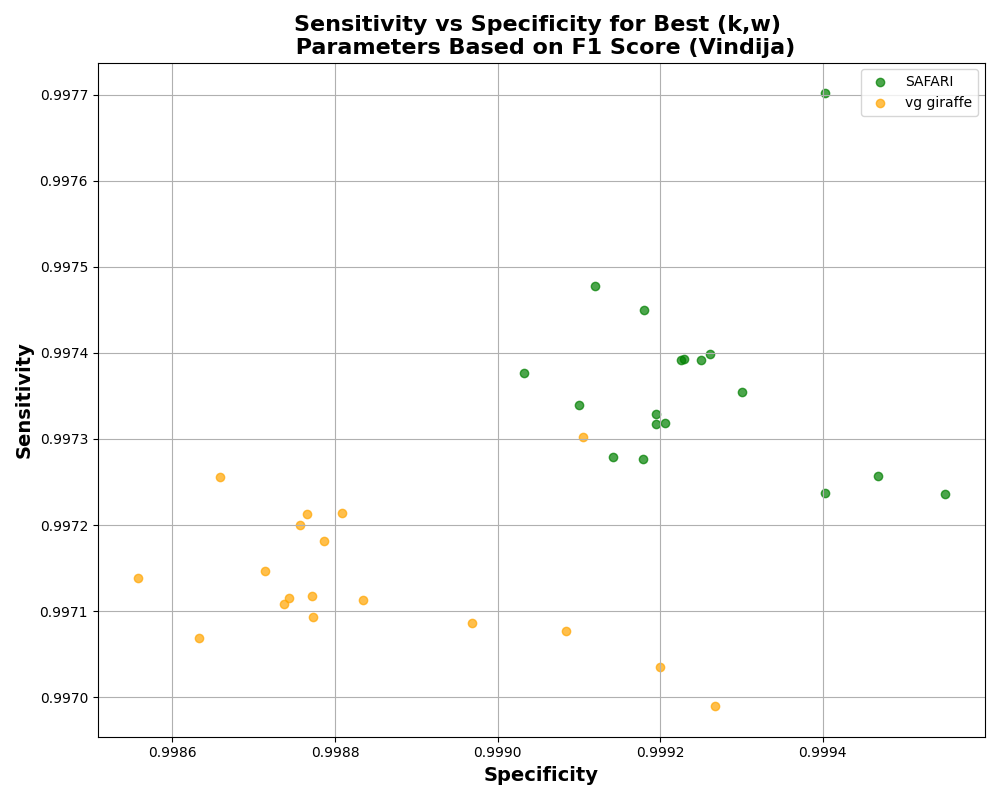
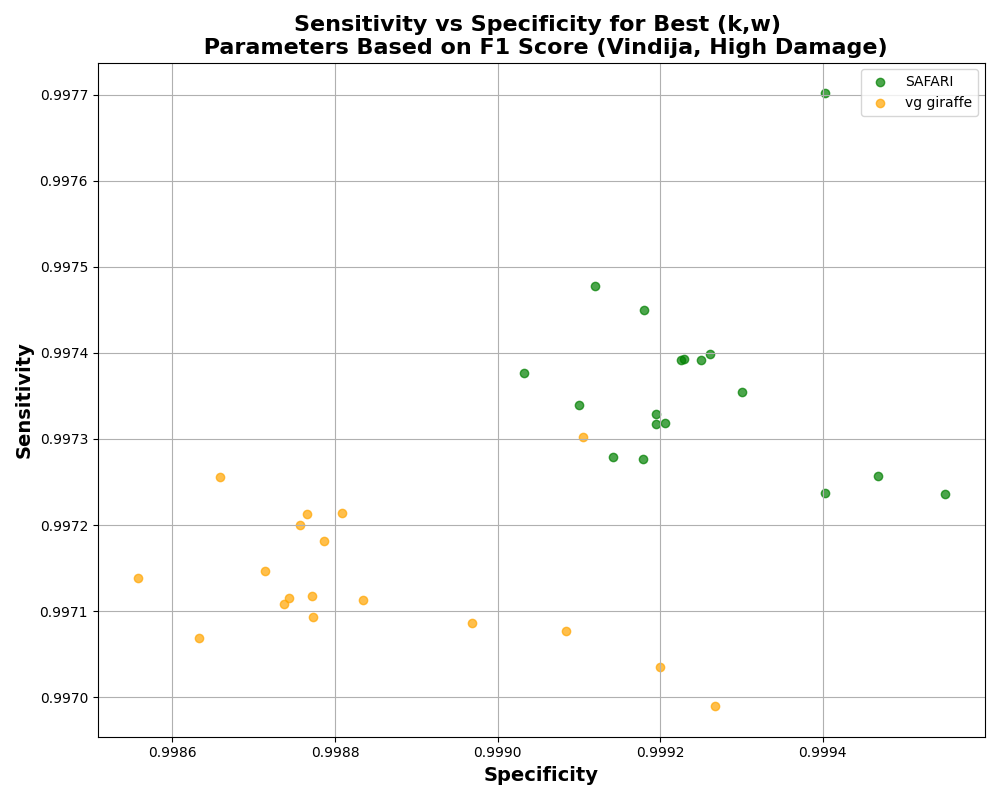
Update

Changed region(s): [[0.186, 0.0312, 0.899, 0.0938]]

diff --git a/linear_experiment/human_mito/stat_results/plot_F1_optimal_pangenome.py b/linear_experiment/human_mito/stat_results/plot_F1_optimal_pangenome.py
@@ -9,7 +9,9 @@ def main():
 
     # Function to identify the optimal k and w for each tool
     def optimize_k_w(group):
-        return group.loc[group['f1'].idxmax()][['k', 'w']]
+        optimal_row = group.loc[group['f1'].idxmax()]
+        print(f"Tool: {optimal_row['tool']}, k: {optimal_row['k']}, w: {optimal_row['w']}, F1: {optimal_row['f1']}, Sensitivity: {optimal_row['sensitivity']}, Specificity: {optimal_row['specificity']}")
+        return optimal_row[['k', 'w']]
 
     # Find the optimal k and w for each tool
     optimal_params = data.groupby('tool').apply(optimize_k_w).reset_index()
@@ -19,8 +21,6 @@ def main():
 
     # Subset the dataframe to only include specific tools
     subset_df = optimal_data[optimal_data['tool'].str.strip().str.lower().isin(['safari', 'vg giraffe'])]
-
-    print(subset_df)
 
     # Calculate median F1 scores
     median_f1_scores = subset_df.groupby(['tool', 'damage_level'])['f1'].median().reset_index()

diff --git a/linear_experiment/human_mito/stat_results/plot_svs_high.py b/linear_experiment/human_mito/stat_results/plot_svs_high.py
@@ -43,7 +43,7 @@ def plot_best_f1(data_path):
         tool_data = best_f1_data[best_f1_data['tool'] == tool]
         plt.scatter(tool_data['specificity'], tool_data['sensitivity'], label=f'{tool}', color=tool_colors[tool], alpha=0.7)
 
-    plt.title('Sensitivity vs Specificity for Best (k,w) \n Parameters Based on F1 Score (' + sys.argv[3] + ")", fontsize=16, fontweight='bold')
+    plt.title('Sensitivity vs Specificity for Best (k,w) \n Parameters Based on F1 Score (' + sys.argv[3] + ", High Damage)", fontsize=16, fontweight='bold')
     plt.xlabel('Specificity', fontsize=14, fontweight='bold')
     plt.ylabel('Sensitivity', fontsize=14, fontweight='bold')
     plt.legend()

diff --git a/linear_experiment/human_mito/stat_results/plot_svs_none.py b/linear_experiment/human_mito/stat_results/plot_svs_none.py
@@ -43,7 +43,7 @@ def plot_best_f1(data_path):
         tool_data = best_f1_data[best_f1_data['tool'] == tool]
         plt.scatter(tool_data['specificity'], tool_data['sensitivity'], label=f'{tool}', color=tool_colors[tool], alpha=0.7)
 
-    plt.title('Sensitivity vs Specificity for Best (k,w) \n Parameters Based on F1 Score (' + sys.argv[3] + ")", fontsize=16, fontweight='bold')
+    plt.title('Sensitivity vs Specificity for Best (k,w) \n Parameters Based on F1 Score (' + sys.argv[3] + ", No Damage)", fontsize=16, fontweight='bold')
     plt.xlabel('Specificity', fontsize=14, fontweight='bold')
     plt.ylabel('Sensitivity', fontsize=14, fontweight='bold')
     plt.legend()
